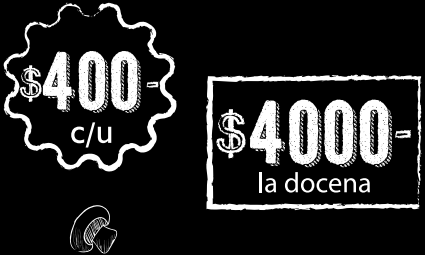
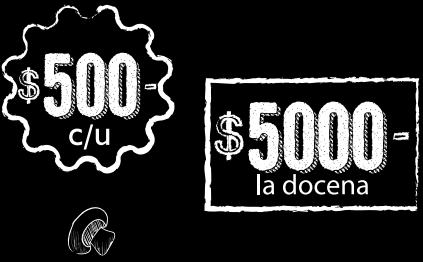
actualizacion precios agosto

Changed region(s): [[0.461, 0.2745, 1.0, 0.8235], [0.0, 0.0, 0.4303, 0.6863], [0.1537, 0.7686, 0.2766, 1.0]]

diff --git a/src/data/Pizzas-data.jsx b/src/data/Pizzas-data.jsx
@@ -1,32 +1,33 @@
 
 const productos = [
-    { id: 1, nombre: 'Mozzarella', descripcion: 'Salsa de tomate y mozzarella', precio: 2500 },
-    { id: 2, nombre: 'Doble Mozza', descripcion: 'Salsa de tomate, mozzarella y jamón',precio: 3250 },
-    { id: 3, nombre: 'Mozza c/Jamón', descripcion: 'Salsa de tomate, mozzarella y jamón',precio: 2950 },
-    { id: 4, nombre: 'Mozza c/anchoas', descripcion: 'Salsa de tomate, mozzarella y anchoas', precio: 3500 },
-    { id: 5, nombre: 'Jamón y Morrón', descripcion: 'Salsa de tomate, mozzarella , jamón y morrón',precio: 3500 },
-    { id: 6, nombre: 'Napolitana', descripcion: 'Salsa de tomate, mozzarella y tomate natural',precio: 2950 },
-    { id: 7, nombre: 'Napolitana y Jamón', descripcion: 'Salsa de tomate, mozzarella, tomate natural y jamón', precio: 3500 },
-    { id: 8, nombre: 'Fugaza c/Queso', descripcion: 'cebolla y mozzarella',precio: 2750 },
-    { id: 9, nombre: 'Fugaza rellena', descripcion: 'cebolla, mozzarella y jamón',precio: 4250 },
-    { id: 10, nombre: 'Salchicha', descripcion: 'Salsa de tomate, mozzarella y salchicha', precio: 3250 },
-    { id: 11, nombre: 'Palmitos', descripcion: 'Salsa de tomate, mozzarella y palmito',precio: 3400 },
-    { id: 12, nombre: 'Palmitos c/Jamón', descripcion: 'Salsa de tomate, mozzarella, palmito y jamón',precio: 3800 },
-    { id: 13, nombre: 'Champiñones', descripcion: 'Salsa de tomate, mozzarella y champiñon',precio: 3500 },
-    { id: 14, nombre: 'Hawaiana', descripcion: 'Salsa de tomate, mozzarella, jamón y ananá ',precio: 3800 },
-    { id: 15, nombre: 'Piamontesa', descripcion: 'Salsa de tomate, mozzarella, calabresa, champiñones y panceta',precio: 4250 },
-    { id: 16, nombre: 'Primavera', descripcion: 'Salsa de tomate, mozzarella, tomate, huevo y jamón',precio: 4000 },
-    { id: 17, nombre: 'Huevo', descripcion: 'Salsa de tomate, mozzarella y huevo',precio: 2950 },
-    { id: 18, nombre: 'Huevo c/Jamón', descripcion: 'Salsa de tomate, mozzarella, jamón y huevo',precio: 3500 },
-    { id: 19, nombre: 'Provolone', descripcion: 'Salsa de tomate, mozzarella y provolone',precio: 3400 },
-    { id: 20, nombre: 'Roquefort', descripcion: 'Salsa de tomate, mozzarella y roquefort',precio: 3400 },
-    { id: 21, nombre: 'Calabresa', descripcion: 'Salsa de tomate, mozzarella y calabresa',precio: 3100 },
-    { id: 22, nombre: 'Calabresa Especial', descripcion: 'Salsa de tomate, mozzarella, calabresa y morrón',precio: 3750 },
-    { id: 23, nombre: 'Rúcula y Parmesano', descripcion: 'Salsa de tomate, mozzarella, rúcula natural y parmesano',precio: 3950 },
-    { id: 24, nombre: 'Rúcula y Provolone', descripcion: 'Salsa de tomate, mozzarella, rúcula natural  y provolone',precio: 4100 },
-    { id: 25, nombre: 'Rúcula y Jamón Crudo', descripcion: 'Salsa de tomate, mozzarella, rúcula natural  y jamón crudo',precio: 4250 },
-    { id: 26, nombre: 'Especial BLOCK', descripcion: 'Salsa de tomate, mozzarella, panceta, huevos fritos y papas fritas',precio: 4500 },
-    { id: 27, nombre: 'Faina (porción)', descripcion: '',precio: 350 }
+    { id: 1, nombre: 'Mozzarella', descripcion: 'Salsa de tomate y mozzarella', precio: 3000 },
+    { id: 2, nombre: 'Doble Mozza', descripcion: 'Salsa de tomate, mozzarella y jamón',precio: 
+    4000 },
+    { id: 3, nombre: 'Mozza c/Jamón', descripcion: 'Salsa de tomate, mozzarella y jamón',precio: 3750 },
+    { id: 4, nombre: 'Mozza c/anchoas', descripcion: 'Salsa de tomate, mozzarella y anchoas', precio: 4000 },
+    { id: 5, nombre: 'Jamón y Morrón', descripcion: 'Salsa de tomate, mozzarella , jamón y morrón',precio: 4500 },
+    { id: 6, nombre: 'Napolitana', descripcion: 'Salsa de tomate, mozzarella y tomate natural',precio: 3750 },
+    { id: 7, nombre: 'Napolitana y Jamón', descripcion: 'Salsa de tomate, mozzarella, tomate natural y jamón', precio: 4500 },
+    { id: 8, nombre: 'Fugaza c/Queso', descripcion: 'cebolla y mozzarella',precio: 3500 },
+    { id: 9, nombre: 'Fugaza rellena', descripcion: 'cebolla, mozzarella y jamón',precio: 5500 },
+    { id: 10, nombre: 'Salchicha', descripcion: 'Salsa de tomate, mozzarella y salchicha', precio: 4000 },
+    { id: 11, nombre: 'Palmitos', descripcion: 'Salsa de tomate, mozzarella y palmito',precio: 4000 },
+    { id: 12, nombre: 'Palmitos c/Jamón', descripcion: 'Salsa de tomate, mozzarella, palmito y jamón',precio: 4750 },
+    { id: 13, nombre: 'Champiñones', descripcion: 'Salsa de tomate, mozzarella y champiñon',precio: 4250 },
+    { id: 14, nombre: 'Hawaiana', descripcion: 'Salsa de tomate, mozzarella, jamón y ananá ',precio: 4250 },
+    { id: 15, nombre: 'Piamontesa', descripcion: 'Salsa de tomate, mozzarella, calabresa, champiñones y panceta',precio: 5500 },
+    { id: 16, nombre: 'Primavera', descripcion: 'Salsa de tomate, mozzarella, tomate, huevo y jamón',precio: 4750 },
+    { id: 17, nombre: 'Huevo', descripcion: 'Salsa de tomate, mozzarella y huevo',precio: 3750 },
+    { id: 18, nombre: 'Huevo c/Jamón', descripcion: 'Salsa de tomate, mozzarella, jamón y huevo',precio: 4500 },
+    { id: 19, nombre: 'Provolone', descripcion: 'Salsa de tomate, mozzarella y provolone',precio: 4000 },
+    { id: 20, nombre: 'Roquefort', descripcion: 'Salsa de tomate, mozzarella y roquefort',precio: 4000 },
+    { id: 21, nombre: 'Calabresa', descripcion: 'Salsa de tomate, mozzarella y calabresa',precio: 3850 },
+    { id: 22, nombre: 'Calabresa Especial', descripcion: 'Salsa de tomate, mozzarella, calabresa y morrón',precio: 4600 },
+    { id: 23, nombre: 'Rúcula y Parmesano', descripcion: 'Salsa de tomate, mozzarella, rúcula natural y parmesano',precio: 4750 },
+    { id: 24, nombre: 'Rúcula y Provolone', descripcion: 'Salsa de tomate, mozzarella, rúcula natural  y provolone',precio: 4850 },
+    { id: 25, nombre: 'Rúcula y Jamón Crudo', descripcion: 'Salsa de tomate, mozzarella, rúcula natural  y jamón crudo',precio: 4950 },
+    { id: 26, nombre: 'Especial BLOCK', descripcion: 'Salsa de tomate, mozzarella, panceta, huevos fritos y papas fritas',precio: 5750 },
+    { id: 27, nombre: 'Faina (porción)', descripcion: '',precio: 400 }
 
   
 ]

diff --git a/src/data/Milanesas-data.jsx b/src/data/Milanesas-data.jsx
@@ -1,20 +1,20 @@
 
 const milanesasData = [
-    { id: 1, nombre: 'Milanesa', descripcion: 'Milanesas + papas fritas', precio: 3500 },
-    { id: 2, nombre: 'Napolitana', descripcion: 'Salsa de tomate, mozzarella y tomate natural + fritas',precio: 4500 },
-    { id: 3, nombre: 'Jamón y Morrón', descripcion: 'Salsa de tomate, mozzarella , jamón y morrón',precio: 5000 },
-    { id: 4, nombre: 'Jamón y Huevo', descripcion: 'Salsa de tomate, mozzarella, jamón y huevo duro + fritas', precio: 5000 },
-    { id: 5, nombre: 'Fugazza c/Queso', descripcion: 'Mozzarella y cebolla + fritas',precio: 4500 },
-    { id: 6, nombre: 'Primavera', descripcion: 'Salsa de tomate, mozzarella, tomate, huevo y jamón + fritas',precio: 5500 },
-    { id: 7, nombre: 'Provolone', descripcion: 'Salsa de tomate, mozzarella y provolone + fritas',precio: 5000 },
-    { id: 8, nombre: 'Roquefort', descripcion: 'Salsa de tomate, mozzarella y roquefort + fritas',precio: 5000 },
-    { id: 9, nombre: 'Hawaiana', descripcion: 'Salsa de tomate, mozzarella, jamón y ananá + fritas',precio: 5500 },
-    { id: 10, nombre: 'Calabresa', descripcion: 'Salsa de tomate, mozzarella y calabresa + fritas',precio: 5000 },
-    { id: 11, nombre: 'Rúcula y Jamón Crudo', descripcion: 'Salsa de tomate, mozzarella, rúcula natural  y jamón crudo + fritas',precio: 5500 },
-    { id: 12, nombre: 'Rúcula y Parmesano', descripcion: 'Salsa de tomate, mozzarella, rúcula natural y parmesano + fritas',precio: 5200 },
-    { id: 13, nombre: 'Mila BLOCK', descripcion: 'Salsa de tomate, mozzarella, panceta, huevos fritos y papas fritas + porción de fritas',precio: 6000 },
-    { id: 14, nombre: 'Porción de Fritas', descripcion: '(Para Compartir)',precio: 2000 },
-    { id: 15, nombre: 'Fritas', descripcion: '(Media Porción)',precio: 1200 }
+    { id: 1, nombre: 'Milanesa', descripcion: 'Milanesas + papas fritas', precio: 4000 },
+    { id: 2, nombre: 'Napolitana', descripcion: 'Salsa de tomate, mozzarella y tomate natural + fritas',precio: 5000 },
+    { id: 3, nombre: 'Jamón y Morrón', descripcion: 'Salsa de tomate, mozzarella , jamón y morrón',precio: 5500 },
+    { id: 4, nombre: 'Jamón y Huevo', descripcion: 'Salsa de tomate, mozzarella, jamón y huevo duro + fritas', precio: 5500 },
+    { id: 5, nombre: 'Fugazza c/Queso', descripcion: 'Mozzarella y cebolla + fritas',precio: 5000 },
+    { id: 6, nombre: 'Primavera', descripcion: 'Salsa de tomate, mozzarella, tomate, huevo y jamón + fritas',precio: 6000 },
+    { id: 7, nombre: 'Provolone', descripcion: 'Salsa de tomate, mozzarella y provolone + fritas',precio: 5500 },
+    { id: 8, nombre: 'Roquefort', descripcion: 'Salsa de tomate, mozzarella y roquefort + fritas',precio: 5500 },
+    { id: 9, nombre: 'Hawaiana', descripcion: 'Salsa de tomate, mozzarella, jamón y ananá + fritas',precio: 6000 },
+    { id: 10, nombre: 'Calabresa', descripcion: 'Salsa de tomate, mozzarella y calabresa + fritas',precio: 5500 },
+    { id: 11, nombre: 'Rúcula y Jamón Crudo', descripcion: 'Salsa de tomate, mozzarella, rúcula natural  y jamón crudo + fritas',precio: 6000 },
+    { id: 12, nombre: 'Rúcula y Parmesano', descripcion: 'Salsa de tomate, mozzarella, rúcula natural y parmesano + fritas',precio: 5750 },
+    { id: 13, nombre: 'Mila BLOCK', descripcion: 'Salsa de tomate, mozzarella, panceta, huevos fritos y papas fritas + porción de fritas',precio: 6500 },
+    { id: 14, nombre: 'Porción de Fritas', descripcion: '(Para Compartir)',precio: 2500 },
+    { id: 15, nombre: 'Fritas', descripcion: '(Media Porción)',precio: 1500 }
 
 ]
 

diff --git a/src/data/Papas-data.jsx b/src/data/Papas-data.jsx
@@ -1,7 +1,7 @@
 const papasData = [
-    { id: 1, nombre: 'Cheddar - Panceta y Verdeo', precio: 1000 },
-    { id: 2, nombre: 'Huevos Fritos (Dos)', precio: 800 },
-    { id: 3, nombre: 'Provenzal', precio: 600 },
+    { id: 1, nombre: 'Cheddar - Panceta y Verdeo', precio: 1250 },
+    { id: 2, nombre: 'Huevos Fritos (Dos)', precio: 900 },
+    { id: 3, nombre: 'Provenzal', precio: 750 },
 ]
 
 export default papasData
